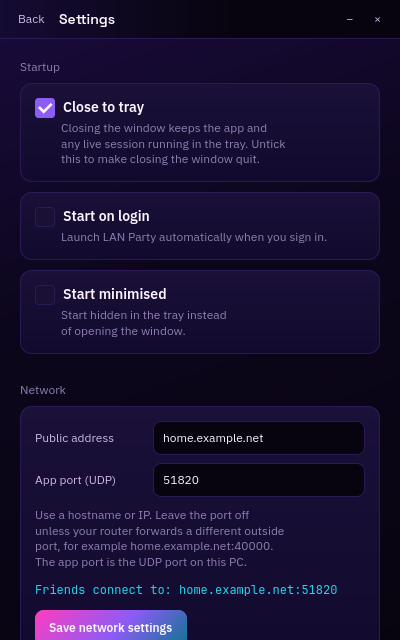
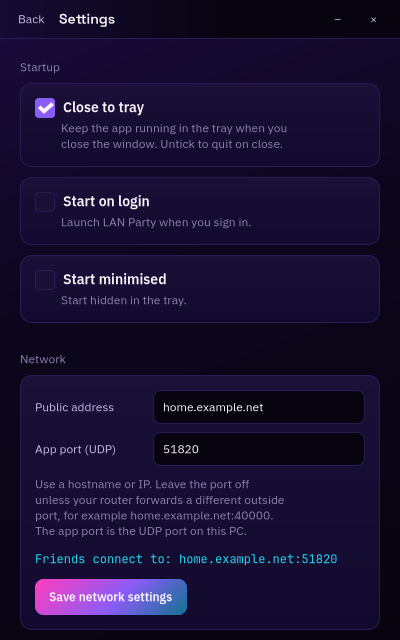
Shortened the startup descriptions and kept the AppImage replaceable while running
Close to tray, Start on login and Start minimised now fit in one or two balanced lines. The GTK image script writes to a temporary file and renames it into place, so rebuilding does not damage a running AppImage. A development app ID override lets preview instances run beside the normal app.

diff --git a/internal/gtkui/settings.go b/internal/gtkui/settings.go
@@ -34,11 +34,11 @@ func (u *probeUI) buildSettingsPage() *gtk.ScrolledWindow {
 	startup.SetMarginBottom(8)
 	page.Append(startup)
 
-	closeNote := "Closing the window keeps the app and any live session running in the tray. Untick this to make closing the window quit."
-	minimiseNote := "Start hidden in the tray instead of opening the window."
+	closeNote := "Keep the app running in the tray when you close the window. Untick to quit on close."
+	minimiseNote := "Start hidden in the tray."
 	if !u.trayAvailable {
-		closeNote = "No system tray was found, so closing the window quits."
-		minimiseNote = "No tray was found, so the window still opens."
+		closeNote = "No tray was found, so closing the window quits."
+		minimiseNote = "No tray was found; the window still opens."
 	}
 
 	page.Append(u.settingCard(
@@ -53,7 +53,7 @@ func (u *probeUI) buildSettingsPage() *gtk.ScrolledWindow {
 
 	page.Append(u.settingCard(
 		"Start on login",
-		"Launch LAN Party automatically when you sign in.",
+		"Launch LAN Party when you sign in.",
 		settings.StartOnLogin,
 		func(v bool) error {
 			return saveSetting(func(s *config.Settings) { s.StartOnLogin = v })
@@ -154,7 +154,7 @@ func (u *probeUI) buildSettingsPage() *gtk.ScrolledWindow {
 
 	page.Append(u.settingCard(
 		"Approve new devices",
-		"Ask before a new friend's device joins. Off accepts any valid invite without asking. A changed device key still asks.",
+		"Ask before a new device joins. A changed device key always asks.",
 		settings.ApproveNewDevices,
 		func(v bool) error {
 			return saveSetting(func(s *config.Settings) { s.ApproveNewDevices = v })

diff --git a/internal/gtkui/probe.go b/internal/gtkui/probe.go
@@ -52,7 +52,11 @@ func RunProbe(argv []string) int {
 	}
 	defer state.Close()
 
-	app := gtk.NewApplication("com.desynkro.lanparty.gtkprobe", gio.ApplicationFlagsNone)
+	appID := os.Getenv("LANPARTY_GTK_APP_ID")
+	if appID == "" {
+		appID = "com.desynkro.lanparty.gtkprobe"
+	}
+	app := gtk.NewApplication(appID, gio.ApplicationFlagsNone)
 	var ui *probeUI
 	app.ConnectActivate(func() {
 		if ui != nil {
